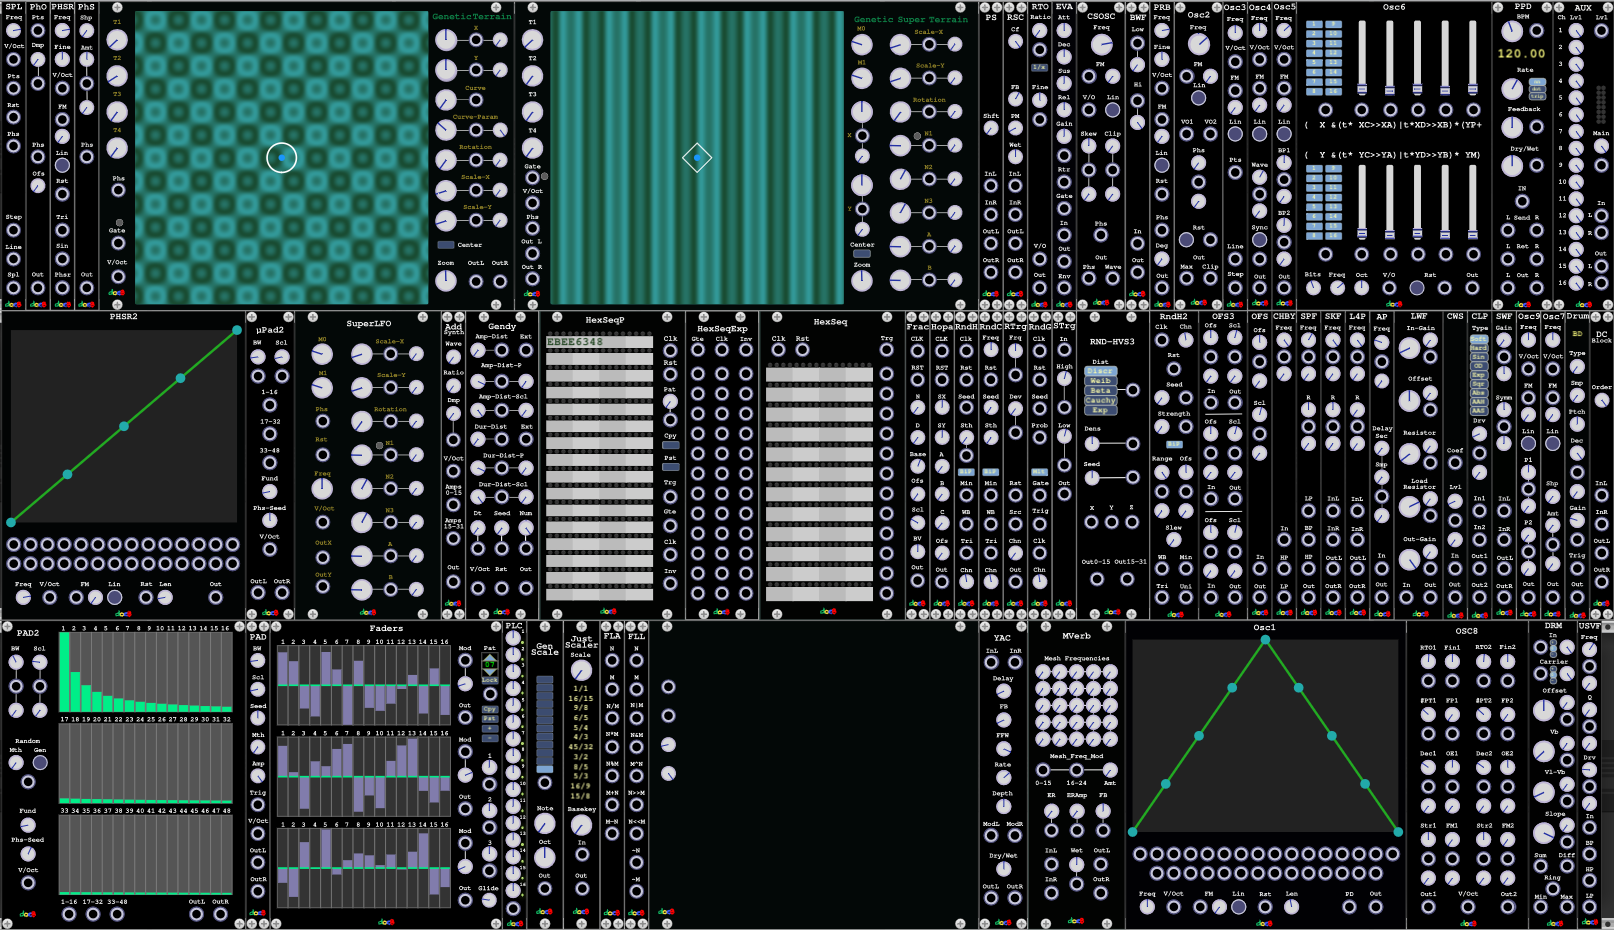
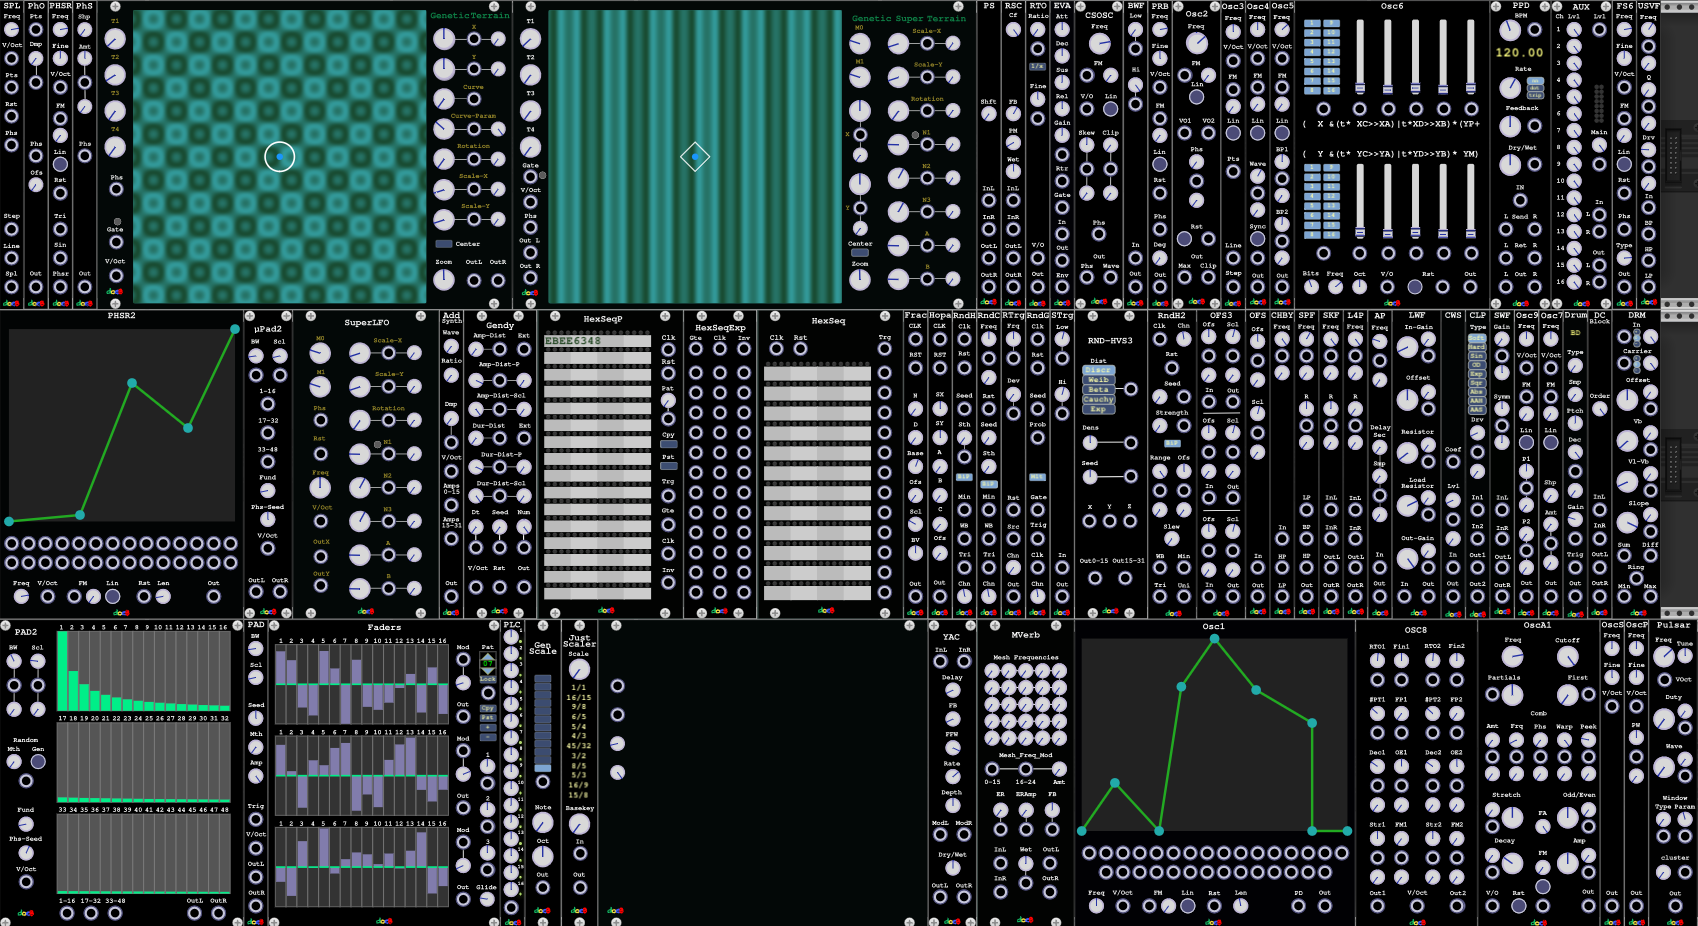
update readme

diff --git a/README.md b/README.md
@@ -10,6 +10,8 @@ New modules in 2.2.0: [Osc1](#osc1), [Osc2](#osc2), [Osc3](#osc3), [Osc4](#osc4)
 
 New modules in 2.3.0: [Osc7](#osc7), [Osc8](#osc8), [Osc9](#osc9), [Drum](#drum), [PPD](#ppd)
 
+New modules in 2.4.0: [FS6](#fs6), [Pulsar](#pulsar), [OscA1](#osca1), [OscS](#oscs), [OscP](#oscp)  
+
 See also the demo patches on [PatchStorage](https://patchstorage.com/author/docb/) or on [youtube](https://www.youtube.com/@docb7593)
 
 
@@ -36,6 +38,7 @@ See also the demo patches on [PatchStorage](https://patchstorage.com/author/docb
   - [Osc8](#osc8)
   - [Osc9](#osc9)
   - [PRB](#prb)
+  - [FS6](#fs6)
   - [CSOSC](#csosc)
   - [SPL](#spl)
   - [Geneticterrain](#geneticterrain)
@@ -47,6 +50,11 @@ See also the demo patches on [PatchStorage](https://patchstorage.com/author/docb
   - [µPad2](#%C2%B5pad2)
   - [Gendy](#gendy)
   - [Drum](#drum)
+  - [Pulsar](#pulsar)
+- [Additive Oscillators](#additive-oscillators)
+  - [OscA1](#osca1)
+  - [OscS](#oscs)
+  - [OscP](#oscp)
 - [Some CPU friendly polyphonic filters](#some-cpu-friendly-polyphonic-filters)
   - [SPF](#spf)
   - [SKF](#skf)
@@ -86,7 +94,6 @@ See also the demo patches on [PatchStorage](https://patchstorage.com/author/docb
   - [EVA](#eva)
   - [Ratio](#ratio)
   - [AUX](#aux)
-  - [FLA and FFL](#fla-and-ffl)
   - [STrg](#strg)
   - [JTScaler](#jtscaler)
   - [GenScale](#genscale)
@@ -159,6 +166,7 @@ The inner points (2 up to (Len-2)) can be modulated via the modulation inputs:
 
 ### Other modules which can be phase driven
 There are several modules which can be phase driven:
+- FS6 (new in 2.4.0)
 - PRB (new in 2.2.0)
 - CSOSC (new in 2.1.1)
 - SPL (new, see below): generates spline waveforms from up to 16 points
@@ -260,6 +268,11 @@ Osc9 is a wave shaping oscillator providing two controls for shaping the sound -
 ![](images/prb-2.png?raw=true)
 - PRB provides exponential FM and linear FM through zero.
 - PRB has a phs input for phase distortion synthesis
+
+### FS6
+![](images/fs6.png?raw=true)
+- FS6 provides 6 very fast sinus wave approximations with far less harmonic content than PRB
+- It is useful for FM Synthesis via linear FM through zero and phase distortion synthesis
 
 ### CSOSC
 ![](images/CSOSC.png?raw=true)
@@ -432,6 +445,41 @@ from Iannis Xenakis.
 ![](images/Drum.png?raw=true)
 
 A tiny sample based drum module with pitch, gain, decay controls.
+
+### Pulsar
+![](images/pulsar.png?raw=true)
+- Pulsar is a pulsar synthesis oscillator
+- It produces trains of short wave forms adjustable with the duty parameter 
+- The wave form can be smoothly controlled from sine to triangle to square to saw
+
+![](images/pulsar2.png?raw=true)
+- The pulses can be clustered and enveloped via the cluster and window parameters
+- Aliasing is suppressed via 16 times oversampling.
+
+## Additive Oscillators
+![](images/additive.png?raw=true)
+
+Some alias-free oscillators which generate the wave form via adding 256-512 partials.
+The computation is done in the background and not in the main audio thread.
+Therefore, there is a menu which controls the buffer size used to communicate between the generator
+and audio output. If the oscillator makes noisy sounds the buffer size should be increased.
+The communication via the buffer on higher sizes may introduce a small delay of the audio output 
+which can be compensated via a delay of e.g. 10ms on the trigger gates for vca/env module connected behind
+
+![](images/OscSwithDelay.png?raw=true)
+
+### OscA1
+- An additive oscillator similar to Osc8 (see there for the parameter descriptions)
+- OscA1 provides additionally a spectral comb filter
+
+![](images/OscA1.png?raw=true)
+
+### OscS
+- Produces an additive generated alias-free saw wave
+
+### OscP
+- Produces an additive generated alias-free pulse wave
+- Provides PWM
 
 
 ## Some CPU friendly polyphonic filters
@@ -739,15 +787,6 @@ into a polyphonic signals.
 The values (0-10V) of the polyphonic Lvl input are divided by 10 and then multiplied with the corresponding parameter value.
 By using 10V Gates on the Lvl input single channels can be turned on and off. 
 To avoid clicks there is a slew limiter processing the incoming level values.
-
-### FLA and FFL
-FLA applies integer arithmetic to a CV signal.
-FLL applies integer bit operations to a CV signal.
-
-The CV input is converted to a 24 bit integer and converted back after the operation.
-The purpose of these modules was originally to have a method for arbitrary formulas used in the classic
-"Experimental music from very short C programs (Viznut)".
-However it turns out that also wired sounds can be made with this method.
 
 ### STrg
 A polyphonic Schmitt Trigger module
